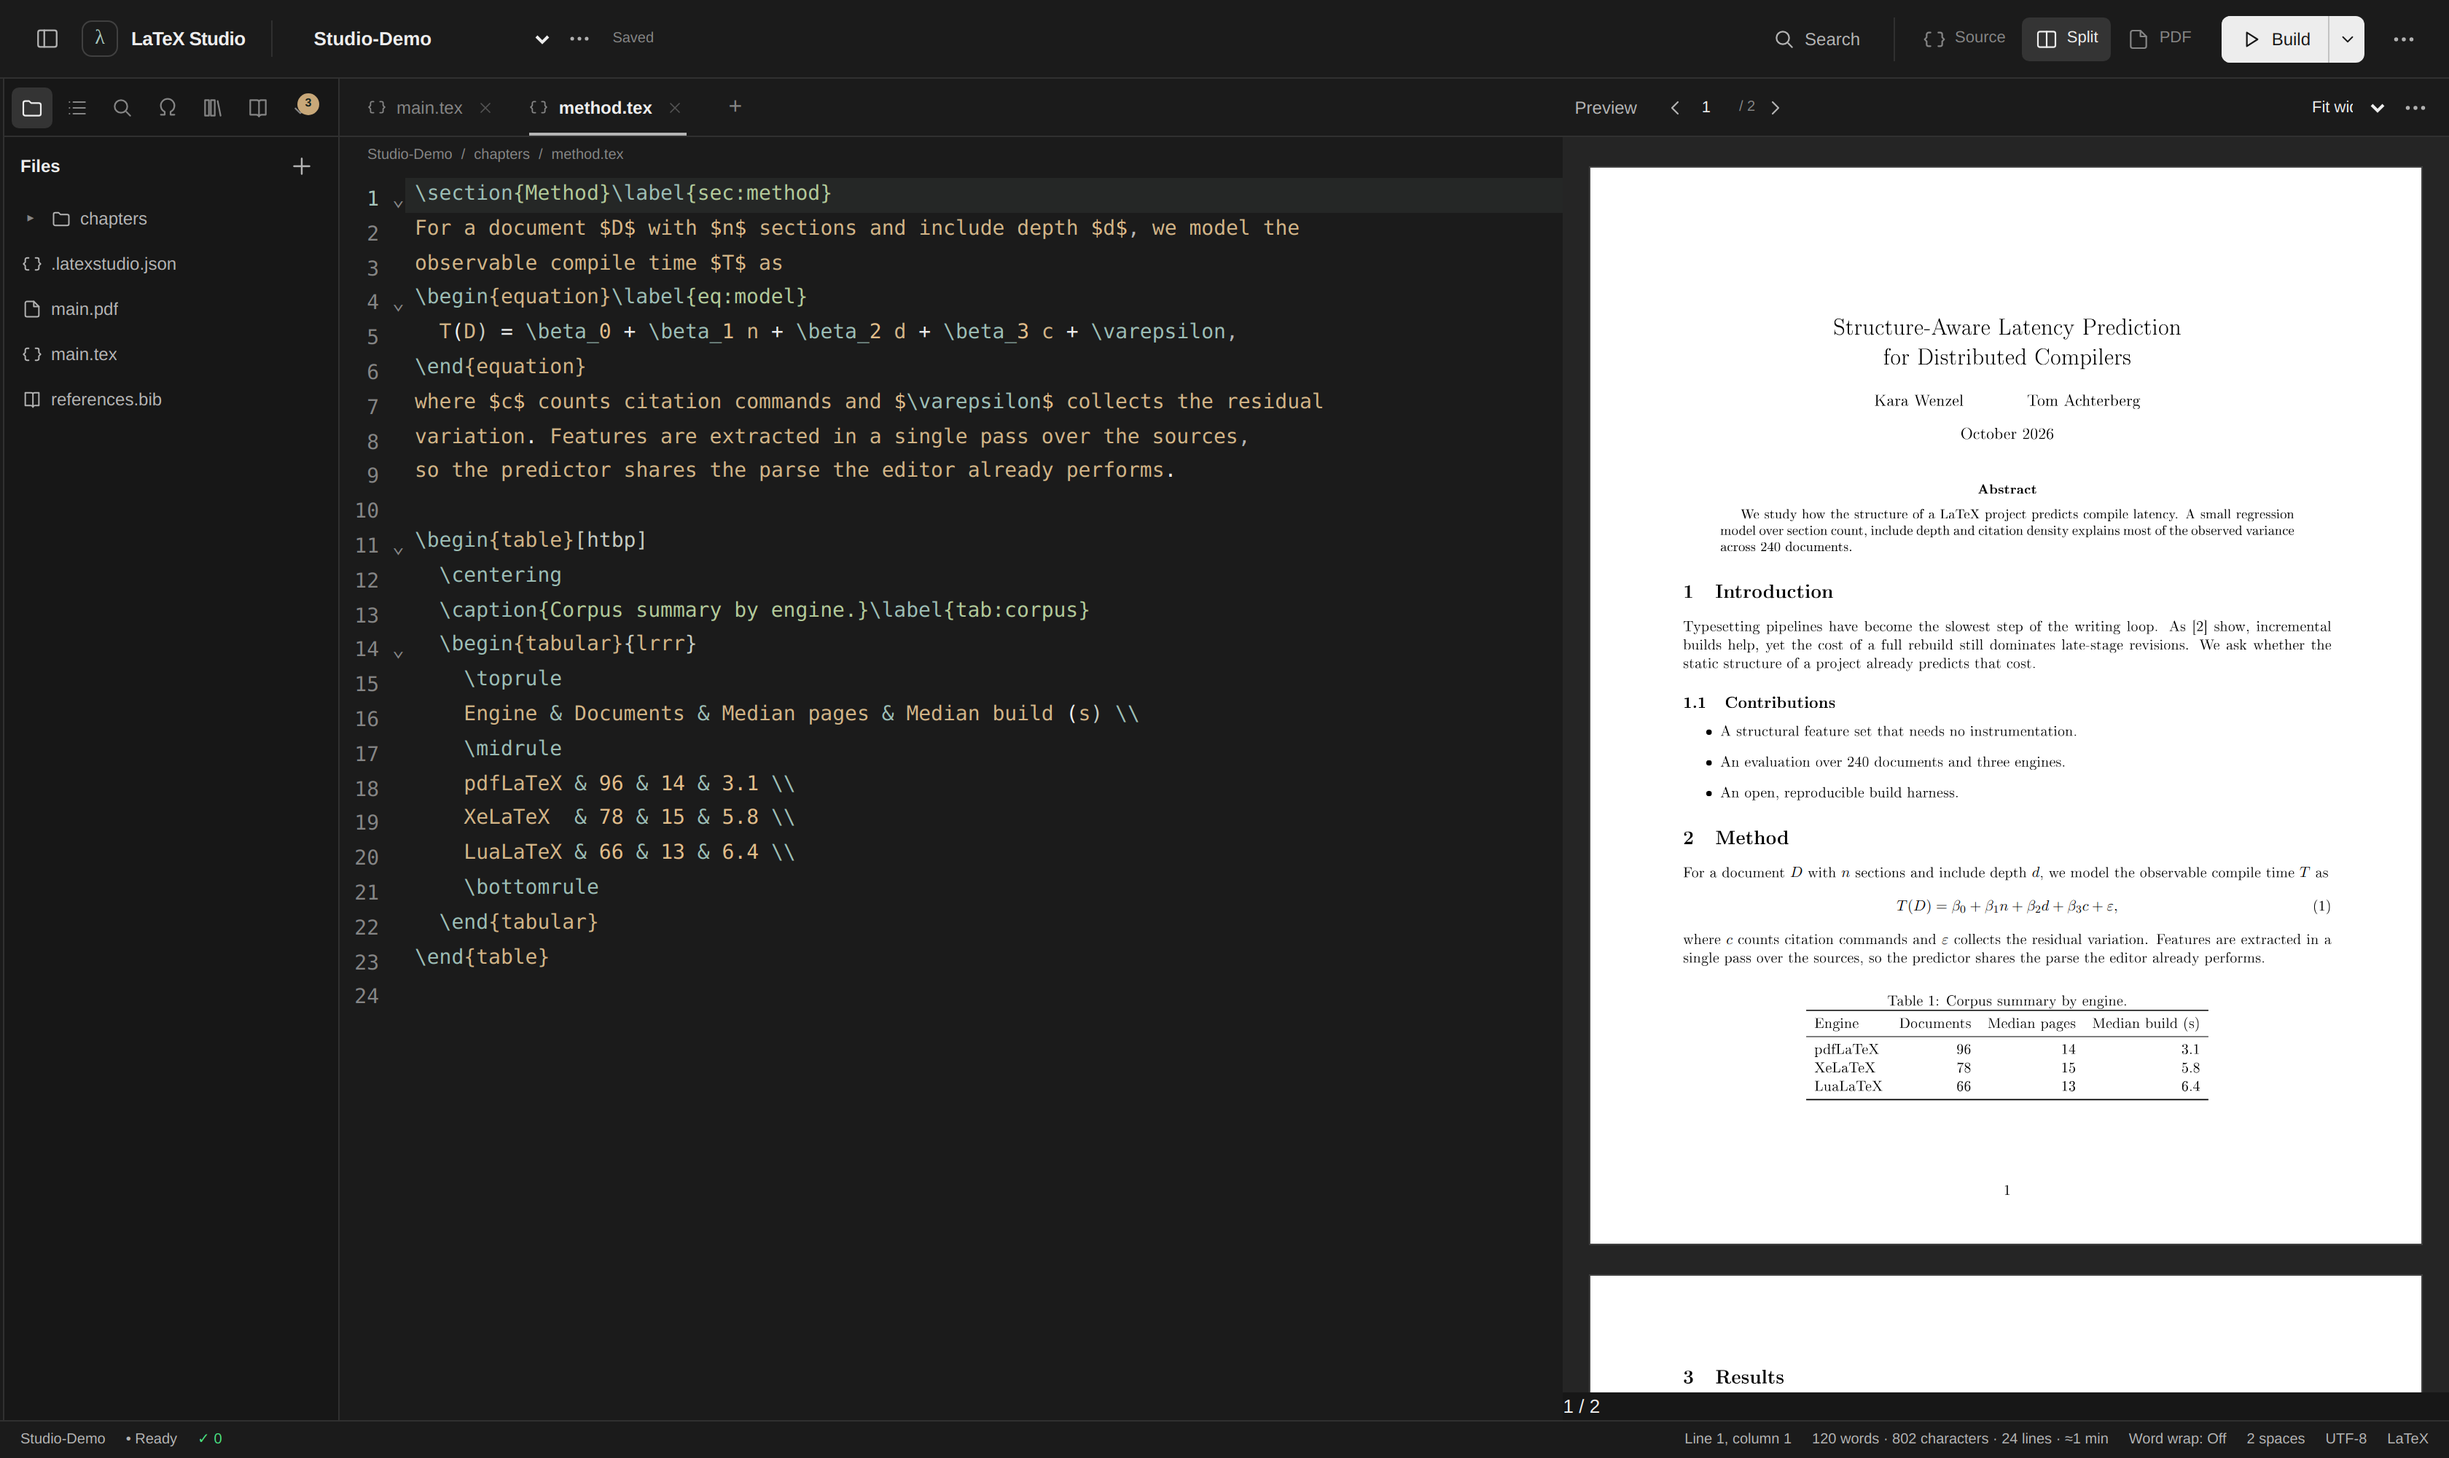
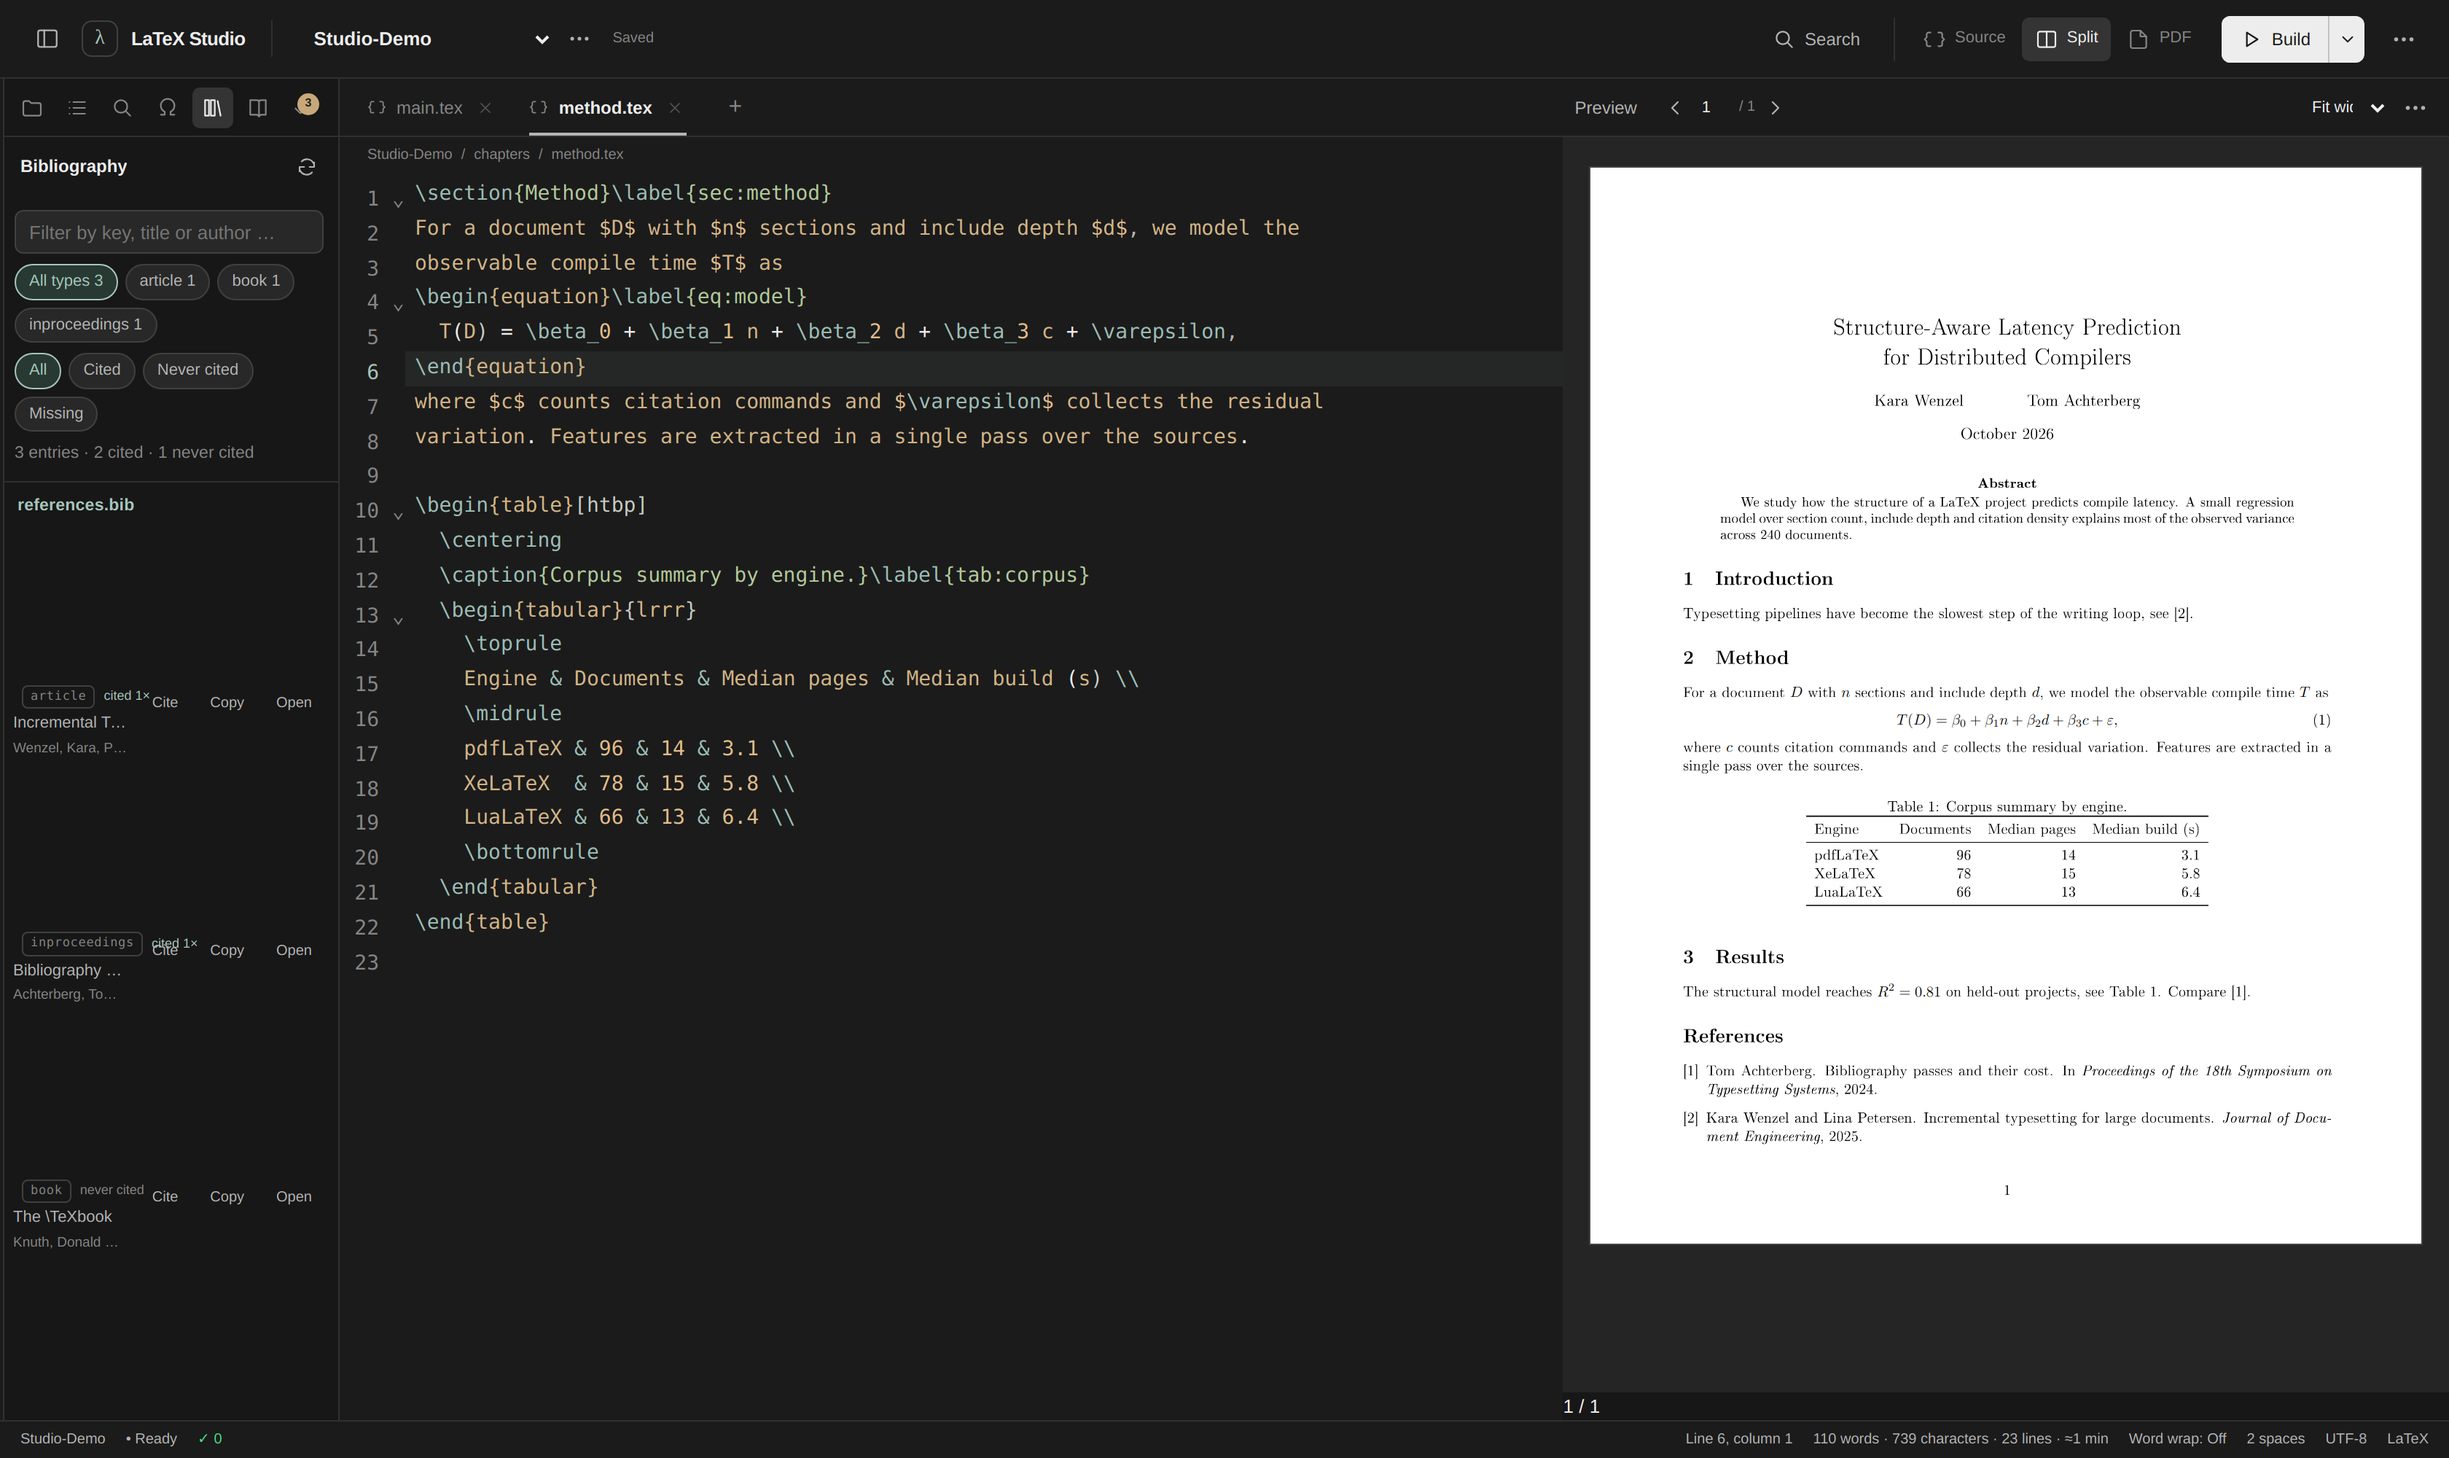
Split the landing hero into copy and the interactive demo
The hero now opens as two columns: the pitch, call to action and install
command on the left, the click-through demo of the real workspace on the
right, with the three value points spanning both columns underneath. The
earlier single-column hero left a wide empty area next to the headline.

The demo adapts to its own width instead of the viewport (container query),
so it stays usable in the narrow hero column: panels, source and a
scrollable page strip stack next to the rail, and a SyncTeX click scrolls
the matching block into view. Screenshot refreshed from the current app.

🤖 Generated with Codebuff

diff --git a/client/styles/landing.css b/client/styles/landing.css
@@ -157,25 +157,34 @@ html[data-theme="dark"] .ico-moon { display: none; }
 
 /* -------------------------------------------------------------------- Hero */
 
-.hero { padding: 72px 0 76px; }
-.hero-text { max-width: 780px; }
+.hero {
+  display: grid;
+  grid-template-columns: minmax(330px, .92fr) minmax(470px, 1.08fr);
+  gap: 44px 46px;
+  align-items: center;
+  padding: 54px 0 66px;
+  text-align: left;
+}
+.hero-text { max-width: 560px; }
 .eyebrow {
   display: flex; align-items: center; gap: 9px;
   color: var(--accent); font: 500 10.5px var(--font-mono);
   text-transform: uppercase; letter-spacing: .11em;
 }
 .eyebrow::before { content: ''; width: 18px; height: 1px; background: currentColor; }
+.hero .eyebrow { justify-content: flex-start; }
 
 .hero h1 {
-  margin: 22px 0 18px;
-  font-size: clamp(46px, 6.4vw, 86px);
-  line-height: 1.02;
-  letter-spacing: -.05em;
+  max-width: 20ch;
+  margin: 20px 0 18px;
+  font-size: clamp(36px, 3.4vw, 54px);
+  line-height: 1.05;
+  letter-spacing: -.045em;
 }
 .hero h1 em { color: var(--accent); font-style: normal; }
-.hero-copy { max-width: 62ch; color: var(--ink-dim); font-size: 15.5px; line-height: 1.72; }
+.hero-copy { max-width: 48ch; margin: 0; color: var(--ink-dim); font-size: 15px; line-height: 1.72; }
 
-.hero-actions { display: flex; align-items: center; gap: 20px; margin-top: 30px; flex-wrap: wrap; }
+.hero-actions { display: flex; align-items: center; justify-content: flex-start; gap: 18px; margin-top: 26px; flex-wrap: wrap; }
 .hero-cta {
   display: inline-flex; align-items: center; gap: 10px;
   min-height: 46px; padding: 0 18px; border-radius: 8px;
@@ -189,18 +198,24 @@ html[data-theme="dark"] .ico-moon { display: none; }
 
 .hero-install {
   display: flex; align-items: center; gap: 10px;
-  margin-top: 26px; padding: 7px 8px 7px 13px;
+  margin: 22px 0 0; padding: 7px 8px 7px 13px;
   border: 1px solid var(--line); border-radius: var(--r-md);
   background: var(--surface);
   width: fit-content; max-width: 100%;
 }
 .hero-install code { color: var(--ink); font-size: 12px; white-space: nowrap; overflow: hidden; text-overflow: ellipsis; }
 
-.hero-facts { display: grid; gap: 12px; margin: 32px 0 0; padding: 0; list-style: none; }
-.hero-facts li { display: grid; gap: 1px; padding-left: 20px; position: relative; }
-.hero-facts li::before { content: '✓'; position: absolute; left: 0; top: 0; color: var(--accent); font: 600 12px var(--font-mono); }
+.hero-facts {
+  grid-column: 1 / -1;
+  display: grid; grid-template-columns: repeat(3, minmax(0, 1fr)); gap: 18px 34px;
+  margin: 6px 0 0; padding: 24px 0 0;
+  list-style: none; text-align: left;
+  border-top: 1px solid var(--line);
+}
+.hero-facts li { display: grid; gap: 3px; padding-left: 20px; position: relative; }
+.hero-facts li::before { content: '✓'; position: absolute; left: 0; top: 1px; color: var(--accent); font: 600 12px var(--font-mono); }
 .hero-facts b { font-size: 13px; font-weight: 600; }
-.hero-facts span { color: var(--ink-faint); font-size: 12px; }
+.hero-facts span { color: var(--ink-faint); font-size: 12px; line-height: 1.6; }
 
 .hero-shot { margin: 46px 0 0; }
 .browser-frame {
@@ -256,10 +271,13 @@ html[data-theme="dark"] .ico-moon { display: none; }
 
 /* ------------------------------------------------------------ Demo frame */
 
-.demo-intro { margin: 0 0 18px; display: grid; gap: 10px; max-width: 78ch; }
-.demo-intro p { color: var(--ink-dim); font-size: 13.5px; line-height: 1.7; }
+.hero-demo { min-width: 0; }
+.demo-head { display: flex; align-items: baseline; justify-content: space-between; gap: 14px; margin-bottom: 12px; }
+.demo-head .eyebrow { justify-content: flex-start; }
+.demo-note { color: var(--ink-faint); font: 500 10.5px var(--font-mono); white-space: nowrap; }
 
 .demo {
+  container-type: inline-size;
   border: 1px solid var(--line); border-radius: var(--r-lg);
   background: var(--surface-2); overflow: hidden;
   box-shadow: var(--shadow);
@@ -347,21 +365,32 @@ html[data-theme="dark"] .ico-moon { display: none; }
 .demo-build kbd { padding: 2px 5px; border: 1px solid var(--line); border-radius: 4px; color: var(--ink-faint); font: 500 9.5px var(--font-mono); }
 .demo-hint { margin-left: auto; color: var(--ink-faint); font-size: 11.5px; text-align: right; }
 
-@media (max-width: 1000px) {
-  .demo-body { grid-template-columns: 42px 168px minmax(0, 1fr); }
-  .demo-body .demo-pdf { display: none; }
-  .demo-hint { display: none; }
+/* Compact demo: panels, source and page stacked next to the rail. Used both in
+   the narrow hero column and on small screens (container query, not viewport). */
+@container (max-width: 800px) {
+  .demo-body, .demo-body[data-view="source"] {
+    grid-template-columns: 34px minmax(0, 1fr);
+    min-height: 0;
+  }
+  .demo-body[data-view="pdf"] { grid-template-columns: 34px minmax(0, 1fr); }
+  .demo-rail { grid-row: 1 / -1; }
+  .demo-panels { grid-column: 2; max-height: 132px; overflow: auto; border-right: 0; border-bottom: 1px solid var(--line); }
+  .demo-editor { grid-column: 2; border-right: 0; border-bottom: 1px solid var(--line); }
+  .demo-pdf { grid-column: 2; max-height: 206px; padding: 11px; overflow: auto; scrollbar-width: thin; }
+  .demo-page { padding: 14px 12px; gap: 6px; }
+  .demo-page-title { font-size: 13.5px; }
+  .demo-pdf-block { padding: 6px 8px; }
+  .demo-pdf-block span { font-size: 10.5px; }
+  .demo-body[data-view="source"] .demo-pdf { display: none; }
+  .demo-body[data-view="pdf"] .demo-panels, .demo-body[data-view="pdf"] .demo-editor { display: none; }
+  .demo-body[data-view="pdf"] .demo-pdf { display: block; max-height: 360px; }
+  .demo-toolbar { flex-wrap: wrap; gap: 8px 10px; }
+  .demo-hint { flex-basis: 100%; margin-left: 0; text-align: left; }
 }
 
-@media (max-width: 760px) {
-  .demo-body, .demo-body[data-view="source"], .demo-body[data-view="pdf"] { grid-template-columns: 1fr; }
-  .demo-body .demo-pdf { display: none; }
-  .demo-body[data-view="pdf"] .demo-editor { display: none; }
-  .demo-body[data-view="pdf"] .demo-pdf { display: block; }
-  .demo-rail { flex-direction: row; justify-content: center; padding: 8px; border-right: 0; border-bottom: 1px solid var(--line); }
-  .demo-panels { border-right: 0; border-bottom: 1px solid var(--line); max-height: 210px; overflow: auto; }
-  .demo-editor { border-right: 0; }
-  .demo-toolbar { flex-wrap: wrap; }
+@container (max-width: 420px) {
+  .demo-panels { max-height: 122px; }
+  .demo-hint { display: none; }
 }
 
 /* ------------------------------------------------------------------- Tour */
@@ -573,7 +602,7 @@ html[data-theme="dark"] .ico-moon { display: none; }
   .site-shell { padding: 0 24px; }
   .site-header { margin: 0 -24px; padding: 0 24px; gap: 16px; }
   .nav-links { gap: 16px; font-size: 12.5px; }
-  .hero { padding: 56px 0 60px; }
+  .hero { grid-template-columns: minmax(300px, .95fr) minmax(400px, 1.05fr); gap: 36px; padding: 48px 0 56px; }
   .pillar-grid, .explorer-grid, .template-grid-landing { grid-template-columns: repeat(2, 1fr); }
   .tour-stage { grid-template-columns: 1fr; gap: 28px; padding: 26px 22px; }
   .tour-demo { min-height: 0; }
@@ -593,8 +622,12 @@ html[data-theme="dark"] .ico-moon { display: none; }
   .nav-links.open { display: flex; }
   .nav-links a { width: 100%; padding: 9px 0; font-size: 14px; }
   .nav-links a.active::after { display: none; }
-  .hero { padding: 44px 0 52px; }
-  .hero-shot { margin-top: 34px; }
+  .hero { display: flex; flex-direction: column; align-items: stretch; gap: 34px; padding: 40px 0 48px; }
+  .hero-text { max-width: none; }
+  .hero h1 { max-width: 24ch; font-size: clamp(34px, 7vw, 46px); }
+  .hero-copy { max-width: 62ch; }
+  .hero-demo { width: 100%; }
+  .hero-facts { grid-template-columns: 1fr; gap: 14px; margin-top: 0; padding-top: 20px; }
   .section-heading { grid-template-columns: 1fr; gap: 8px; margin-bottom: 28px; }
   .section-heading p { max-width: 60ch; }
   .pillars, .tour, .deep-features, .templates, .keys, .quickstart, .faq, .projects { padding: 56px 0; }

diff --git a/client/index.html b/client/index.html
@@ -73,19 +73,15 @@
             <code id="install-cmd">npm install &amp;&amp; npm start</code>
             <button class="mini-btn copy-btn" data-copy="npm install && npm start">Copy</button>
           </div>
-          <ul class="hero-facts">
-            <li><b>Runs on your machine</b><span>Your projects stay in your own folders</span></li>
-            <li><b>No account, no cloud</b><span>Nothing is uploaded or analysed</span></li>
-            <li><b>Your TeX installation</b><span>pdfLaTeX, XeLaTeX, LuaLaTeX, pLaTeX</span></li>
-          </ul>
         </div>
 
-        <div class="demo-intro">
-          <div class="eyebrow" id="demo-title">Interactive demo</div>
-          <p>No video, no screenshots — this is the real layout, built from the same components. Switch panels, flip between source and PDF, click a highlighted line for a SyncTeX jump or run a build.</p>
-        </div>
+        <div class="hero-demo">
+          <div class="demo-head">
+            <span class="eyebrow" id="demo-title">Interactive demo</span>
+            <span class="demo-note">no video, no screenshots</span>
+          </div>
 
-        <div class="demo" id="app-demo">
+          <div class="demo" id="app-demo">
           <div class="demo-chrome">
             <span class="demo-dots" aria-hidden="true"><i></i><i></i><i></i></span>
             <span class="demo-title">localhost:4180/studio · latency-paper</span>
@@ -169,9 +165,16 @@
               <button data-demo-view="pdf" aria-pressed="false">PDF</button>
             </div>
             <button class="demo-build" id="demo-build">▶ Build <kbd>Ctrl+B</kbd></button>
-            <span class="demo-hint" id="demo-hint">Click a rail panel, a source line or a page block</span>
+              <span class="demo-hint" id="demo-hint">Click a rail panel, a source line or a page block</span>
+            </div>
           </div>
         </div>
+
+        <ul class="hero-facts">
+          <li><b>Runs on your machine</b><span>Projects stay in your own folders; TeX compiles with your installation (pdfLaTeX, XeLaTeX, LuaLaTeX, pLaTeX).</span></li>
+          <li><b>No account, no cloud</b><span>Nothing is uploaded or analysed, and there is no telemetry. Hosted builds compile in the browser.</span></li>
+          <li><b>Nothing gets lost</b><span>Change history, snapshots, word goals and notes are stored locally in your own browser.</span></li>
+        </ul>
       </section>
 
       <!-- ------------------------------------------- Existing local projects -->

diff --git a/client/landing.js b/client/landing.js
@@ -215,6 +215,14 @@
       clearTimeout(flashTimer);
       syncNodes.forEach(function (node) { node.classList.toggle('sync-active', node.dataset.demoSync === key); });
       if (origin === 'source') {
+        // The page pane is a short scrollable strip in the compact layout:
+        // bring the matching block into view without moving the whole page.
+        var block = demo.querySelector('.demo-pdf-block[data-demo-sync="' + key + '"]');
+        var strip = block && block.closest('.demo-pdf');
+        if (block && strip && strip.scrollHeight > strip.clientHeight + 4) {
+          var offset = block.offsetTop - (strip.clientHeight - block.clientHeight) / 2;
+          strip.scrollTo({ top: Math.max(0, offset), behavior: reduceMotion ? 'auto' : 'smooth' });
+        }
         setHint('SyncTeX: source line jumped to the matching block on the page.');
         setStatus('SyncTeX → page 1');
       } else if (origin === 'page') {

diff --git a/README.md b/README.md
@@ -147,7 +147,8 @@ and the collaboration features need the local Node.js server. See
 - Snapshots: capture all text files before a rewrite; automatic quiet backup every 20 minutes and
   always one before restoring
 - ZIP export/import and public GitHub repository import
-- Seven templates (article, thesis, beamer, report, letter, mathematics, minimal) and sample projects
+- Seven templates (article, thesis, beamer, report, letter, mathematics paper, minimal) and sample
+  projects
 - Browser workspace mode for the hosted build: projects, files, search/replace and ZIP transfer in
   IndexedDB, with in-browser compilation
 
